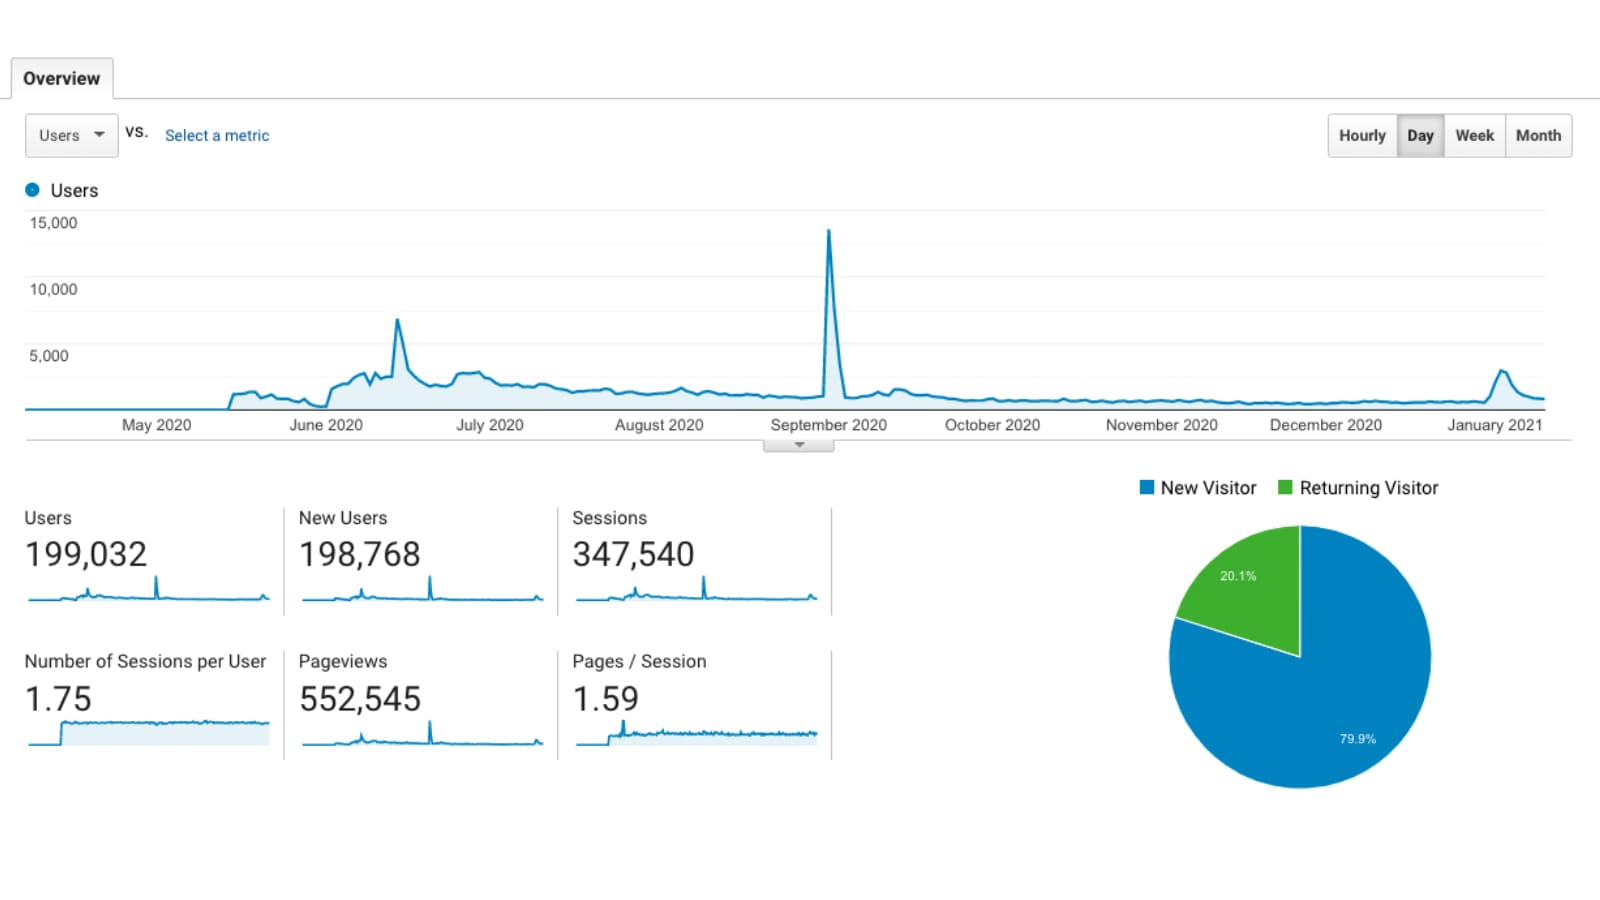
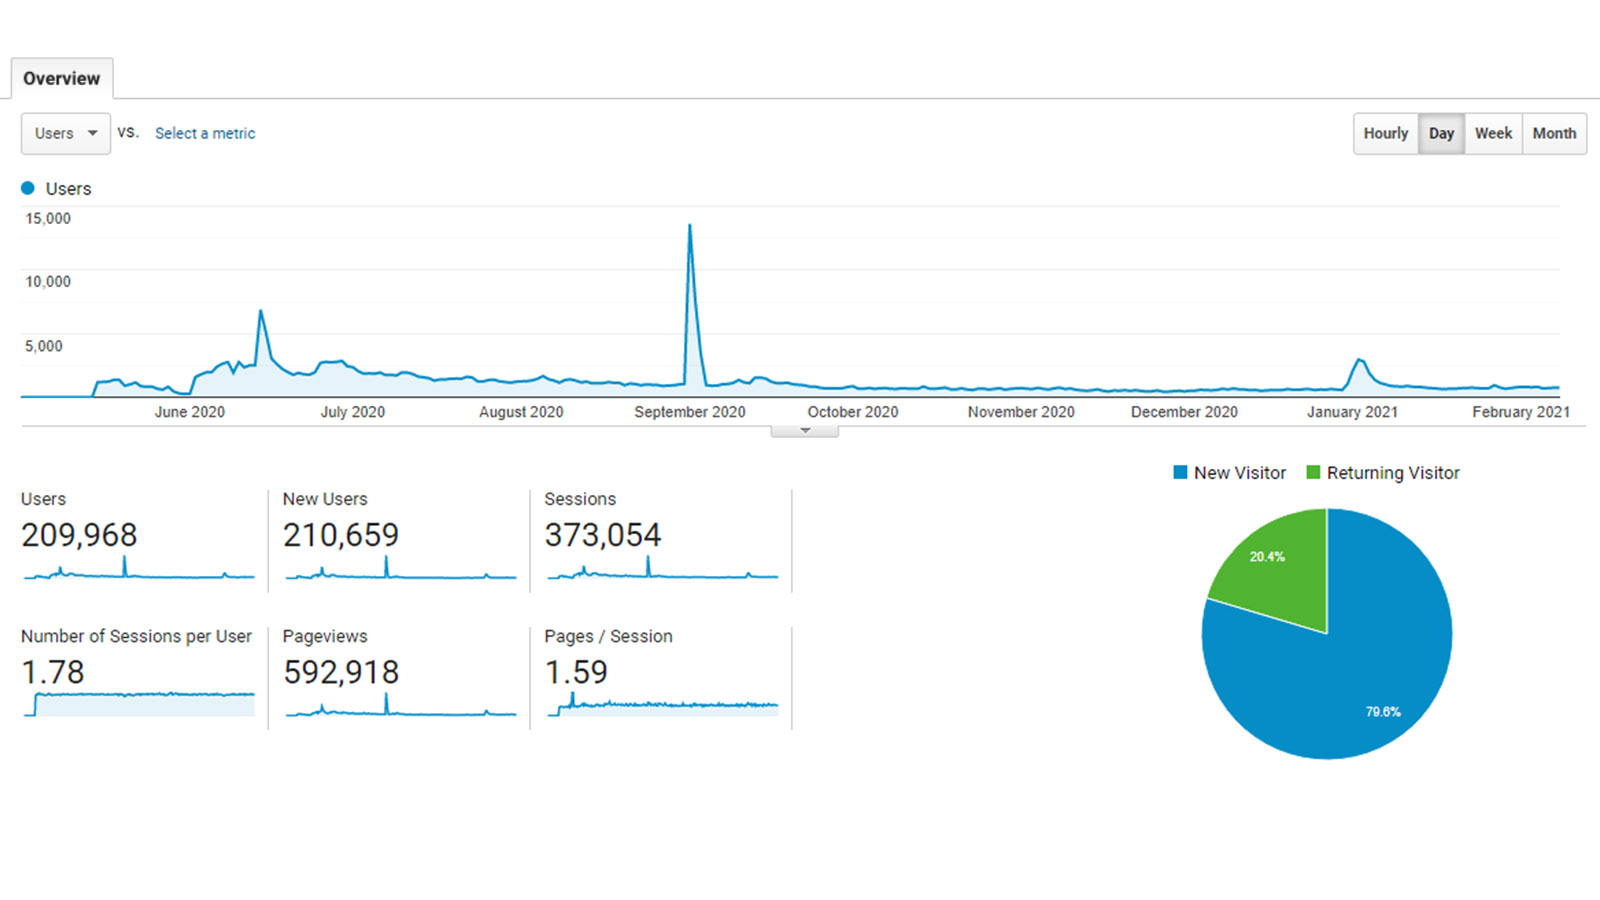
2nd phase

diff --git a/src/pages/About.js b/src/pages/About.js
@@ -207,7 +207,7 @@ export default function About (){
                     style={{width: '100%'}} 
                     />
 
-                    <DividerTitle>Career</DividerTitle>
+                    <DividerTitle>Work Experience</DividerTitle>
                     <Divider />
 
                     <InfoLine>
@@ -215,13 +215,12 @@ export default function About (){
                         <InfoRight>
                             <b>Republic of Korea Navy</b>
                             <div>Sub-lieutenant (IT branch)</div>
-                            <div>An officer in charge of E-learning Content Creating Dept. in Naval Education & Training Command</div>
+                            <div>An officer in charge of E-learning Content Creation Dept. in Naval Education & Training Command</div>
                         </InfoRight>
                     </InfoLine>
                     <ul style={{marginTop: '1rem'}}>
-                        <InsideList>Improved old design intranet websites to modern design and layout with HTML, CSS, and Vanilla JavaScript.</InsideList>
                         <InsideList>Created interactive E-learning content with HTML and Adobe Captivate and developed intranet websites to serve them.</InsideList>
-                        <InsideList>Managed teams of planning, development, voice recording, video editing, and 3d modeling to make E-learning content.</InsideList>
+                        <InsideList>Improved intranet websites by modernizing design and simplifying layout using HTML, CSS, and Vanilla JavaScript.</InsideList>
                     </ul>
                     <br/>
 

diff --git a/src/data/projects.ts b/src/data/projects.ts
@@ -60,7 +60,7 @@ export const projects: Array<ProjectType> = [
         stack: ['React.js', 'Node.js(Express.js)', 'Nginx', 'MySQL(EC2)', 'AWS S3/EC2/CloudFront/Route53', 'React Native (Web View App)'],
         feature: ['SPA', 'Responsive', 'SSR by react-snapshot', 'SEO', 'RESTful Back-end', "https SSL(Let's Encrypt)"],
         profit: 'Google AdSense, KaKao Adfit / Google Admob(Mobile)',
-        result: '199k Users, 347k Sessions on Google Analytics, 5k downloads on Google Play ( ~ Jan 2021)',
+        result: '210k Users, 373k Sessions on Google Analytics, 5k downloads on Google Play ( ~ Feb 2021)',
         library: 'https://github.com/stellarsailor/portfolio/blob/orphan_branch/src/data/dependencies/Valog.json',
         
         idea: "I am a big fan of video games and E-Sports, so when Riot Games' Valorant was released, I started to make a Valorant information website for the Koreans. I would say this is the very first Valorant website in the Korean community, so it went viral.",

diff --git a/src/pages/Contact.js b/src/pages/Contact.js
@@ -71,7 +71,7 @@ export default function Contact (){
     },[])
 
     const contactType = ['Email', 'GitHub', 'LinkedIn', 'Instagram']
-    const contactLink = ['mailto:dev.stellarsailor@gmail.com', 'https://github.com/stellarsailor', 'https://www.linkedin.com/in/minsu-lee-b6818b198/', 'https://www.instagram.com/stellarsalior']
+    const contactLink = ['mailto:minsulee.dev@gmail.com', 'https://github.com/stellarsailor', 'https://www.linkedin.com/in/minsu-lee-b6818b198/', 'https://www.instagram.com/stellarsalior']
 
     return (
         <Row nogutter justify="center">

diff --git a/src/components/Footer.js b/src/components/Footer.js
@@ -32,7 +32,7 @@ export default function Footer() {
     return (
         <FooterPane>
             <TextInside>
-                <HoverLink href="mailto:dev.stellarsailor@gmail.com" target="_blank" rel="noreferrer"> Email </HoverLink> 
+                <HoverLink href="mailto:minsulee.dev@gmail.com" target="_blank" rel="noreferrer"> Email </HoverLink> 
                 | 
                 <HoverLink href="https://github.com/stellarsailor" target="_blank" rel="noreferrer"> GitHub </HoverLink> 
                 | 
